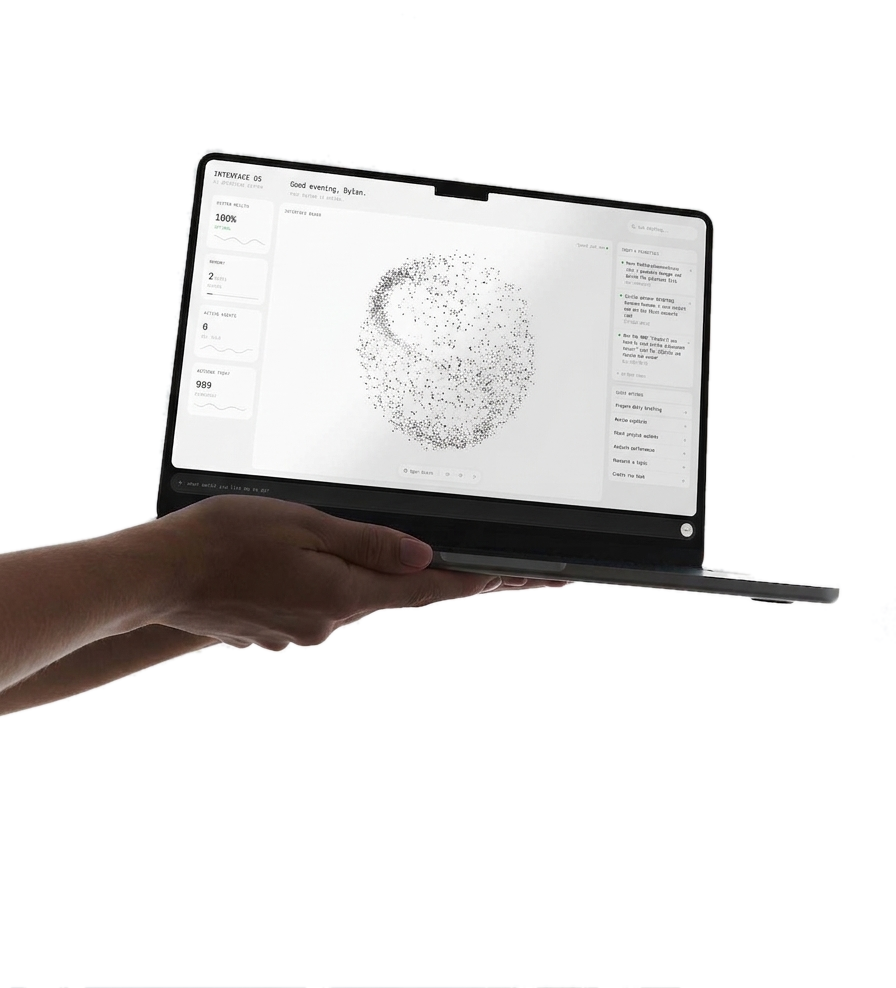
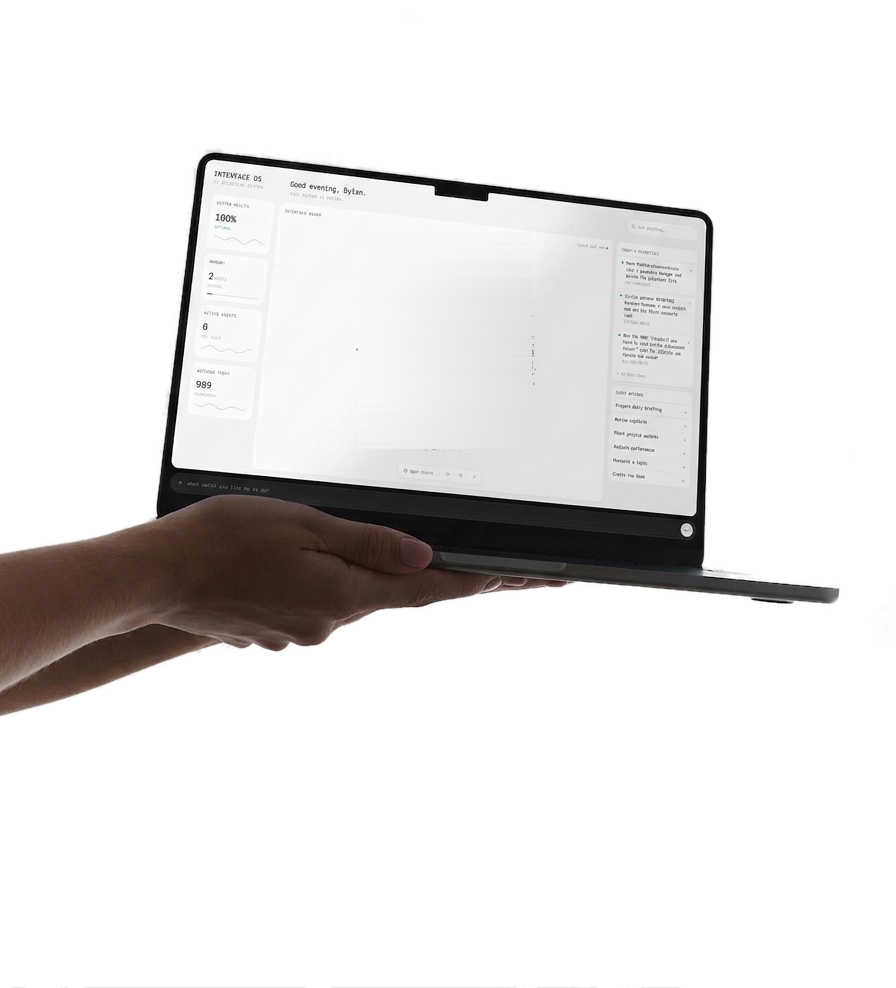
Remove static sphere from hero photo, overlay transparent live orb in its place

Changed region(s): [[0.4062, 0.2429, 0.5938, 0.4555]]

diff --git a/style.css b/style.css
@@ -660,7 +660,7 @@ header.site-head nav a.active { color: var(--ink-inv); background: var(--btn-bg)
    just placed to match this one photograph's own screen region. */
 .hero-shot-orb {
   position: absolute; left: 40%; top: 23.5%; width: 19.5%; height: 22%;
-  pointer-events: none; background: #fff; border-radius: 4px;
+  pointer-events: none;
 }
 .hero-shot-orb canvas { width: 100%; height: 100%; display: block; }
 .hero-shot-copy { flex: 1; min-width: 0; margin-top: 14px; }
